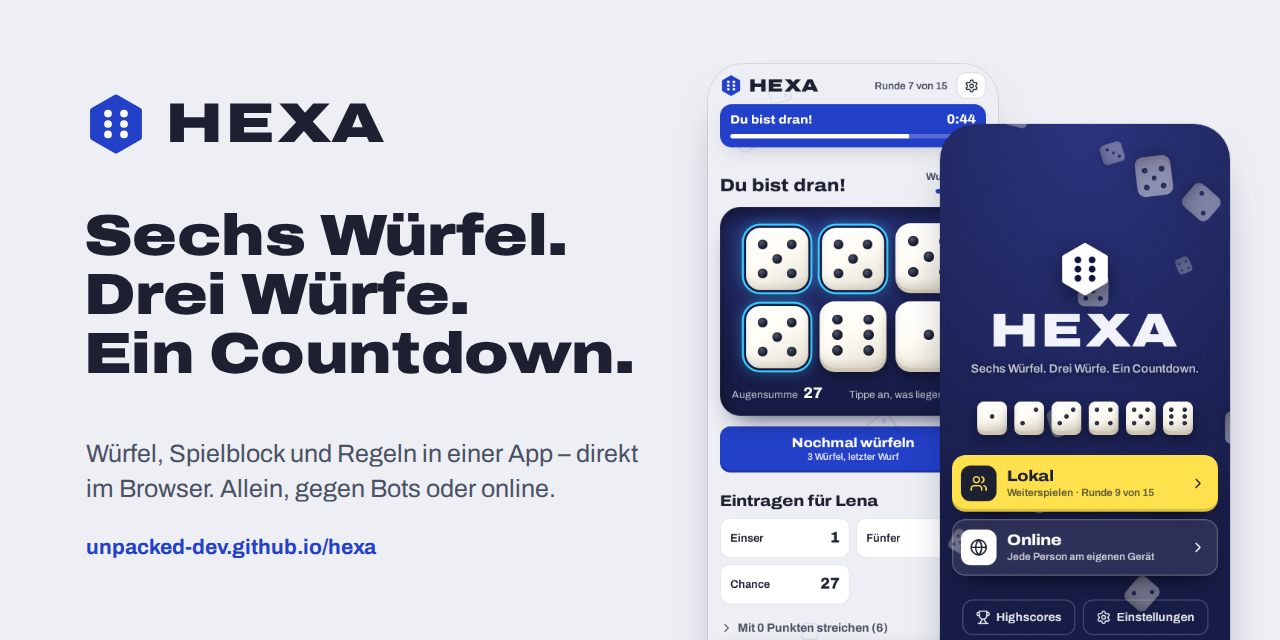
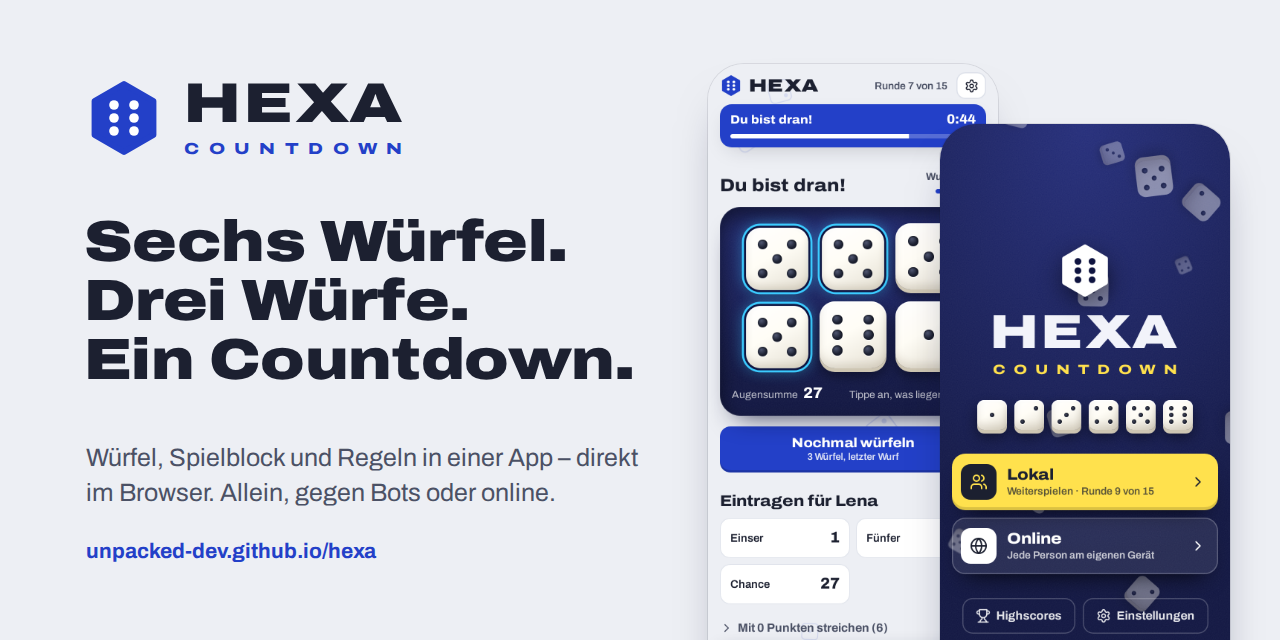
Neuer Name nach außen: HEXA: Countdown
Zu Issue #2. Überall, wo man das Spiel findet, teilt oder zum ersten
Mal sieht, steht jetzt der volle Name: Seitentitel, Beschreibung und
Vorschau-Tags, Manifest (name), README, Regeln (de/en), Changelog,
Server-README, Konzept, Lizenzhinweise und der Release-Titel.

Startbildschirm: Unter „HEXA“ steht in Gelb „COUNTDOWN“, gesperrt so
breit wie „HEXA“. Der Spruch darunter fällt dort weg, damit „Countdown“
nicht zweimal untereinander steht. In den Regeln, im README und im
Vorschaubild bleibt er.

Titelbild im README und Vorschaubild für geteilte Links neu, mit dem
neuen Startbildschirm und der Wortmarke „HEXA / COUNTDOWN“.

Kurz „HEXA“ bleibt unter dem App-Icon, in der Kopfzeile, im Code und
in den Dateinamen. Adressen und Speicher-Schlüssel bleiben unverändert.

Claude-Session: https://claude.ai/code/session_01EyxE22HJnkbi7Dpw29RZbE

diff --git a/index.html b/index.html
@@ -7,8 +7,8 @@
 <meta name="theme-color" content="#0D1020" media="(prefers-color-scheme: dark)">
 <!-- Gewähltes Design (hell oder dunkel) setzen, bevor die Seite gezeichnet wird -->
 <script src="js/theme-init.js"></script>
-<title>HEXA</title>
-<meta name="description" content="HEXA – Würfel, Spielblock und Regeln für das Würfelspiel mit sechs Würfeln.">
+<title>HEXA: Countdown</title>
+<meta name="description" content="HEXA: Countdown – Würfel, Spielblock und Regeln für das Würfelspiel mit sechs Würfeln.">
 <meta name="apple-mobile-web-app-title" content="HEXA">
 <meta name="robots" content="noindex">
 <link rel="icon" href="favicon.svg" type="image/svg+xml">
@@ -16,8 +16,9 @@
 <link rel="manifest" href="manifest.webmanifest">
 
 <meta property="og:type" content="website">
+<meta property="og:site_name" content="HEXA: Countdown">
 <meta property="og:locale" content="de_DE">
-<meta property="og:title" content="HEXA – Das Würfelspiel">
+<meta property="og:title" content="HEXA: Countdown – Das Würfelspiel">
 <meta property="og:description" content="Sechs Würfel. Drei Würfe. Ein Countdown. Würfel, Spielblock und Regeln in einer App – direkt im Browser.">
 <meta property="og:url" content="https://unpacked-dev.github.io/hexa/">
 <meta property="og:image" content="https://unpacked-dev.github.io/hexa/docs/social-preview.png">
@@ -41,8 +42,7 @@
   <div class="start-in">
     <header class="start-hero">
       <svg class="start-logo" viewBox="0 0 40 40" aria-hidden="true"><path class="hex" d="M20 3 34.7 11.5v17L20 37 5.3 28.5v-17z"/><g class="pip"><circle cx="15" cy="13.5" r="2.4"/><circle cx="15" cy="20" r="2.4"/><circle cx="15" cy="26.5" r="2.4"/><circle cx="25" cy="13.5" r="2.4"/><circle cx="25" cy="20" r="2.4"/><circle cx="25" cy="26.5" r="2.4"/></g></svg>
-      <h1 class="start-name" id="startName">HEXA</h1>
-      <p class="start-claim" data-i18n="start.claim"></p>
+      <h1 class="start-name" id="startName">HEXA<span class="sr">: </span><span class="start-sub">Countdown</span></h1>
     </header>
     <div class="start-dice" id="startDice" aria-hidden="true"></div>
     <div class="start-modes" role="group" data-i18n-label="start.modes">
@@ -61,7 +61,7 @@
       <button type="button" class="start-set" data-act="scores"><svg viewBox="0 0 24 24" fill="none" stroke="currentColor" stroke-width="2" stroke-linecap="round" stroke-linejoin="round" aria-hidden="true"><path d="M6 9H4.5a2.5 2.5 0 0 1 0-5H6"/><path d="M18 9h1.5a2.5 2.5 0 0 0 0-5H18"/><path d="M4 22h16"/><path d="M10 14.66V17c0 .55-.47.98-.97 1.21C7.85 18.75 7 20.24 7 22"/><path d="M14 14.66V17c0 .55.47.98.97 1.21C16.15 18.75 17 20.24 17 22"/><path d="M18 2H6v7a6 6 0 0 0 12 0V2Z"/></svg><span data-i18n="start.scores"></span></button>
       <button type="button" class="start-set" data-act="settings"><svg viewBox="0 0 24 24" fill="none" stroke="currentColor" stroke-width="2" stroke-linecap="round" stroke-linejoin="round" aria-hidden="true"><path d="M9.671 4.136a2.34 2.34 0 0 1 4.659 0 2.34 2.34 0 0 0 3.319 1.915 2.34 2.34 0 0 1 2.33 4.033 2.34 2.34 0 0 0 0 3.831 2.34 2.34 0 0 1-2.33 4.033 2.34 2.34 0 0 0-3.319 1.915 2.34 2.34 0 0 1-4.659 0 2.34 2.34 0 0 0-3.32-1.915 2.34 2.34 0 0 1-2.33-4.033 2.34 2.34 0 0 0 0-3.831A2.34 2.34 0 0 1 6.35 6.051a2.34 2.34 0 0 0 3.319-1.915"/><circle cx="12" cy="12" r="3"/></svg><span data-i18n="start.settings"></span></button>
     </div>
-    <noscript><p class="start-ns" lang="de">Bitte aktiviere JavaScript, um HEXA zu nutzen.</p><p class="start-ns" lang="en">Please enable JavaScript to play HEXA.</p></noscript>
+    <noscript><p class="start-ns" lang="de">Bitte aktiviere JavaScript, um HEXA: Countdown zu spielen.</p><p class="start-ns" lang="en">Please enable JavaScript to play HEXA: Countdown.</p></noscript>
   </div>
 </section>
 

diff --git a/lang/de.js b/lang/de.js
@@ -25,7 +25,6 @@
     },
 
     start: {
-      claim: 'Sechs Würfel. Drei Würfe. Ein Countdown.',
       modes: 'Spielmodus',
       local: 'Lokal',
       localNew: 'Ein Gerät, reihum spielen',
@@ -479,8 +478,8 @@
         {
           title: 'Worum geht’s?',
           html: `
-          <p>Bei HEXA würfelst du um die besten Kombinationen: Pasche, Straßen, Paare und Drillinge – oder einfach um möglichst viele Augen. In 15 Runden füllst du deinen Spielblock Feld für Feld. Doch Vorsicht: Jedes Feld darfst du nur ein einziges Mal belegen.</p>
-          <p>Wer geschickt plant, holt sich im oberen Block einen dicken Bonus. Und wer schon im ersten Wurf vier gleiche Zahlen hat, darf zusätzlich den <b>Countdown</b> spielen.</p>
+          <p>Bei HEXA: Countdown würfelst du um die besten Kombinationen: Pasche, Straßen, Paare und Drillinge – oder einfach um möglichst viele Augen. In 15 Runden füllst du deinen Spielblock Feld für Feld. Doch Vorsicht: Jedes Feld darfst du nur ein einziges Mal belegen.</p>
+          <p>Wer geschickt plant, holt sich im oberen Block einen dicken Bonus. Und wer schon im ersten Wurf vier gleiche Zahlen hat, darf zusätzlich den <b>Countdown</b> spielen – daher der Name.</p>
           <p><b>Ziel des Spiels:</b> Sammle in 15 Runden möglichst viele Punkte. Wer am Ende die meisten hat, gewinnt.</p>`,
         },
         {

diff --git a/lang/en.js b/lang/en.js
@@ -23,7 +23,6 @@
     },
 
     start: {
-      claim: 'Six dice. Three rolls. One Countdown.',
       modes: 'Game mode',
       local: 'Local',
       localNew: 'One device, take turns',
@@ -477,8 +476,8 @@
         {
           title: 'What’s it all about?',
           html: `
-          <p>In HEXA, you roll for the best combinations: of-a-kinds, straights, pairs and triples – or simply as many pips as possible. Over 15 rounds, you fill in your scorecard box by box. But watch out: you can use each box only once.</p>
-          <p>Plan well and you’ll earn a big bonus in the upper section. And if you roll four of a kind on your very first roll, you also get to play the <b>Countdown</b>.</p>
+          <p>In HEXA: Countdown, you roll for the best combinations: of-a-kinds, straights, pairs and triples – or simply as many pips as possible. Over 15 rounds, you fill in your scorecard box by box. But watch out: you can use each box only once.</p>
+          <p>Plan well and you’ll earn a big bonus in the upper section. And if you roll four of a kind on your very first roll, you also get to play the <b>Countdown</b> – hence the name.</p>
           <p><b>Goal of the game:</b> Score as many points as possible in 15 rounds. Whoever has the most at the end wins.</p>`,
         },
         {

diff --git a/css/hexa.css b/css/hexa.css
@@ -915,7 +915,8 @@ html:not(.ready) .start-in > :not(noscript) { visibility: hidden; }
 .start-logo .pip { fill: var(--tray-2); }
 @keyframes spin-in { from { transform: scale(.72) rotate(-60deg); } to { transform: none; } }
 .start-name { margin: 6px 0 0; font-size: 64px; font-weight: 900; font-stretch: 125%; letter-spacing: .06em; line-height: .9; }
-.start-claim { margin: 0; font-size: 16px; font-weight: 600; color: rgba(255, 255, 255, .72); text-shadow: 0 1px 10px rgba(8, 11, 38, .6); text-wrap: balance; }
+/* Zweiter Teil des Namens, gesperrt ungefähr so breit wie „HEXA“. Der rechte Rand gleicht die Sperrung hinter dem letzten Buchstaben aus. */
+.start-sub { display: block; margin: 12px -.62em 0 0; font-size: 18px; font-weight: 800; letter-spacing: .62em; line-height: 1; text-transform: uppercase; color: var(--marker); }
 .start-dice { --s: 40px; display: flex; justify-content: center; gap: 10px; }
 .start-dice .die { cursor: default; }
 .start-modes { display: grid; gap: 10px; width: 100%; }

diff --git a/server/tests/server.spec.js b/server/tests/server.spec.js
@@ -284,7 +284,7 @@ Deno.test('HTTP: Die App, der Status unter /health, sonst nur WebSocket', async 
   const page = await fetch(env.http(0) + '/');
   assert.equal(page.status, 200);
   assert.match(page.headers.get('content-type'), /text\/html/);
-  assert.match(await page.text(), /<title>HEXA<\/title>/);
+  assert.match(await page.text(), /<title>HEXA: Countdown<\/title>/);
   for (const [path, type] of [['/js/online.js', /javascript/], ['/css/hexa.css', /css/], ['/lang/de.js', /javascript/], ['/icons/icon-192.png', /png/], ['/manifest.webmanifest', /manifest/]]) {
     const r = await fetch(env.http(0) + path);
     assert.equal(r.status, 200, path);

diff --git a/README.md b/README.md
@@ -2,7 +2,7 @@
 
 <img src="favicon.svg" width="80" height="80" alt="HEXA-Logo">
 
-# HEXA
+# HEXA: Countdown
 
 **Sechs Würfel. Drei Würfe. Ein Countdown.**
 
@@ -28,9 +28,9 @@ Läuft direkt im Browser, auf dem Handy wie am Laptop. Ohne Installation, ohne K
 
 ## Worum geht’s?
 
-Bei HEXA würfelst du um die besten Kombinationen: Pasche, Straßen, Paare und Drillinge – oder einfach um möglichst viele Augen. In 15 Runden füllst du deinen Spielblock Feld für Feld, und jedes Feld darfst du nur einmal belegen.
+Bei HEXA: Countdown würfelst du um die besten Kombinationen: Pasche, Straßen, Paare und Drillinge – oder einfach um möglichst viele Augen. In 15 Runden füllst du deinen Spielblock Feld für Feld, und jedes Feld darfst du nur einmal belegen.
 
-Wer geschickt plant, holt sich im oberen Block einen dicken Bonus. Und wer schon im ersten Wurf vier gleiche Zahlen hat, darf zusätzlich den **Countdown** spielen: von 6 bis 1 herunterzählen, 10 Punkte pro geschaffter Stufe.
+Wer geschickt plant, holt sich im oberen Block einen dicken Bonus. Und wer schon im ersten Wurf vier gleiche Zahlen hat, darf zusätzlich den **Countdown** spielen – daher der Name. Dabei zählst du von 6 bis 1 herunter, 10 Punkte pro geschaffter Stufe.
 
 Die App ersetzt Würfel, Becher, Block und Stift. Ihr gebt einfach das Handy reihum – oder legt es in die Mitte. Oder ihr spielt online, jede Person am eigenen Handy.
 

diff --git a/CHANGELOG.md b/CHANGELOG.md
@@ -1,12 +1,14 @@
 # Changelog
 
-Alle wichtigen Änderungen an HEXA stehen hier.
+Alle wichtigen Änderungen an HEXA: Countdown stehen hier.
 Das Format folgt [Keep a Changelog](https://keepachangelog.com/de/1.1.0/), die Versionen folgen [Semantic Versioning](https://semver.org/lang/de/).
 
 ## [Unreleased]
 
 ### Geändert
 
+- **Neuer Name: HEXA: Countdown.** Ein Spiel namens „HEXA“ gibt es schon. Deshalb heißt das Spiel nach außen jetzt „HEXA: Countdown“, nach dem Bonusspiel. Das steht im Seitentitel, beim Installieren, im README, im Vorschaubild für geteilte Links und in den Regeln. Unter dem App-Icon und in der Kopfzeile bleibt es kurz „HEXA“. Adressen, Spielstände, Highscores und Einstellungen bleiben, wie sie sind.
+- **Startbildschirm:** Unter „HEXA“ steht jetzt in Gelb „Countdown“. Der Spruch „Sechs Würfel. Drei Würfe. Ein Countdown.“ steht dafür nur noch in den Regeln, damit „Countdown“ nicht zweimal untereinander steht.
 - **Hauptmenü:** Unter „Online“ steht jetzt kurz „Jede Person am eigenen Gerät“, passend zu „Lokal“. Der Text passt so auch auf schmalen Handys in eine Zeile.
 - **README und Vorschaubild:** zeigen das aktuelle Hauptmenü, ohne „Bald verfügbar“ bei Online. Das Vorschaubild für geteilte Links zeigt außerdem einen Zug im Online-Spiel.
 

diff --git a/docs/online-konzept.md b/docs/online-konzept.md
@@ -4,7 +4,7 @@
 
 ## Kurz gesagt
 
-Mehrere Leute spielen HEXA zusammen, jede Person am eigenen Gerät. Eine Person erstellt eine Lobby und bekommt einen Code aus 4 Buchstaben. Die anderen treten mit diesem Code bei. Man kann auch allein online spielen. Es gibt keine Konten, nur Spitznamen.
+Mehrere Leute spielen HEXA: Countdown zusammen, jede Person am eigenen Gerät. Eine Person erstellt eine Lobby und bekommt einen Code aus 4 Buchstaben. Die anderen treten mit diesem Code bei. Man kann auch allein online spielen. Es gibt keine Konten, nur Spitznamen.
 
 Der Server würfelt, prüft jeden Zug und achtet auf die Zugzeit von 60 Sekunden. Er läuft mit Deno auf Deno Deploy und speichert alles in Deno KV.
 

diff --git a/THIRD-PARTY-NOTICES.md b/THIRD-PARTY-NOTICES.md
@@ -1,6 +1,6 @@
 # Lizenzen von Drittanbietern
 
-HEXA selbst steht unter der [MIT-Lizenz](LICENSE). Die Schriften und einige Icons stammen von anderen und stehen unter eigenen freien Lizenzen. Alles davon liegt direkt im Repository: Beim Spielen wird nichts von fremden Servern geladen.
+HEXA: Countdown selbst steht unter der [MIT-Lizenz](LICENSE). Die Schriften und einige Icons stammen von anderen und stehen unter eigenen freien Lizenzen. Alles davon liegt direkt im Repository: Beim Spielen wird nichts von fremden Servern geladen.
 
 ## Schriften
 

diff --git a/server/README.md b/server/README.md
@@ -1,4 +1,4 @@
-# HEXA-Server für den Online-Modus
+# Online-Server für HEXA: Countdown
 
 Der Server würfelt, prüft jeden Zug und achtet auf die Zugzeit. Er läuft mit [Deno](https://deno.com), ganz ohne weitere Pakete: `Deno.serve` für HTTP und WebSocket, [Deno KV](https://docs.deno.com/deploy/kv/) als Datenbank. Die Regeln kommen aus `../js/rules.js`, genau wie in der App.
 
